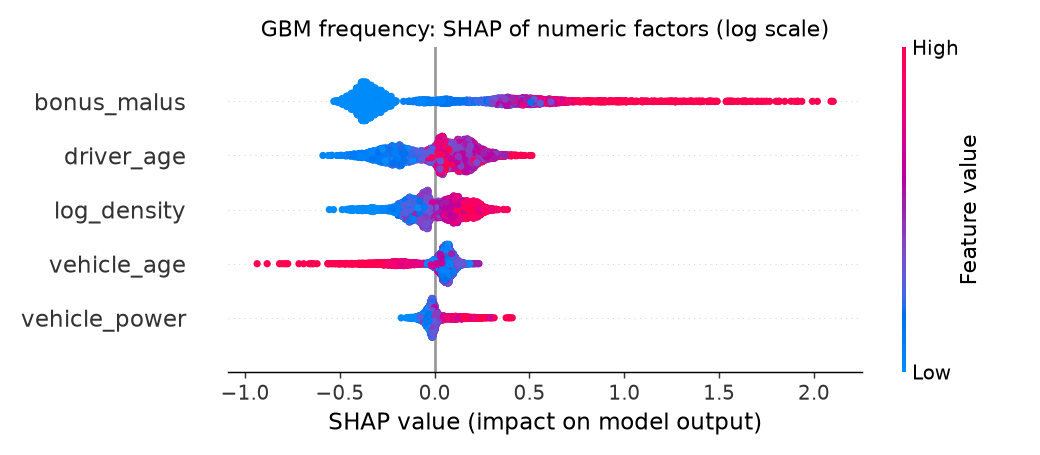
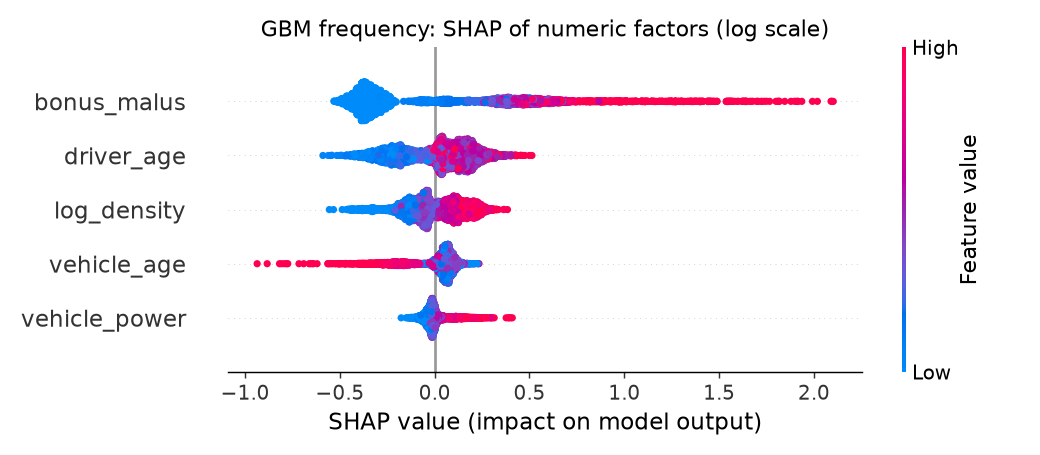
README with results, architecture and cost choices; drop runtime from metrics.json

diff --git a/src/pricing/train.py b/src/pricing/train.py
@@ -247,9 +247,9 @@ def main() -> None:
         out[f"premium_{m}"] = out[f"pp_{m}"] * out["exposure"]
     out.to_parquet(processed / "policy_predictions.parquet", index=False)
 
-    report["runtime_seconds"] = round(time.time() - t0, 1)
     (results / "metrics.json").write_text(json.dumps(report, indent=2, default=float))
     print(json.dumps(report, indent=2, default=float))
+    print(f"done in {time.time() - t0:.1f}s")
 
 
 def explain_gbm(model, X_test: pd.DataFrame, results: Path) -> dict:

diff --git a/README.md b/README.md
@@ -1,0 +1,294 @@
+# Motor insurance pricing platform
+
+A small but complete pricing stack on French motor third-party liability data (freMTPL2,
+677,991 policies, 26,444 claims): raw files land as parquet, dbt builds tested
+staging → intermediate → mart layers in DuckDB, a frequency × severity GLM tariff and a
+gradient-boosting challenger are fitted on the marts, model outputs go back into the
+warehouse as a loss-ratio mart, and a FastAPI service quotes from the GLM tariff. Airflow
+or a single `make pipeline` runs the whole thing in about 40 seconds on a laptop.
+
+## Results
+
+All metrics are on a held-out 20% of policies (135,629 policies, seed 42). The source is
+[`results/metrics.json`](results/metrics.json); `make pipeline` regenerates every number below.
+
+### GLM tariff vs GBM challenger
+
+| | Flat rate | GLM (Poisson × Gamma) | GBM (Poisson × Gamma, monotone in bonus-malus) |
+|---|---|---|---|
+| Frequency: mean Poisson deviance | 0.4718 | 0.4514 | **0.4455** |
+| Frequency: deviance explained | – | 4.3% | **5.6%** |
+| Frequency Gini | 0 | 0.285 | **0.312** |
+| Pure premium Gini, capped claims (95% bootstrap CI) | 0 | 0.309 (0.270–0.349) | **0.338** (0.302–0.381) |
+| Pure premium Gini, full incurred (95% CI) | 0 | 0.367 (0.199–0.548) | 0.378 (0.229–0.556) |
+| Double lift: mean \|actual/predicted − 1\| over deciles | – | 0.26 | **0.105** |
+| Predicted / actual losses on test | 0.935 | 0.935 | 0.933 |
+
+- **The GBM ranks risks better, but not by much.** On capped claims its Gini lead is
+  +0.029 with a bootstrap 95% CI of +0.004 to +0.054, so the gain is real but small. On full
+  incurred losses the difference (CI −0.055 to +0.075) is lost in the noise of a few very
+  large claims.
+- **The double lift shows where the two models disagree.** For the 10% of policies the GBM
+  prices highest relative to the GLM, actual losses come in at 1.78× the GLM premium and
+  1.00× the GBM premium. Most of the GLM's shortfall comes from treating bonus-malus as
+  linear on the log scale (see the loss ratios below), and splines or bands on bonus-malus
+  would be the first fix to try in the GLM.
+- **Severity is close to unpredictable** with these variables. Mean Gamma deviance is
+  1.1402 for the null model, 1.1381 for the GLM and 1.1412 for the GBM. Backward selection
+  on training-set BIC keeps only driver age, vehicle power and region in the severity GLM.
+  Nearly all the segmentation comes from frequency.
+- **Large losses matter.** Claims above the training-set 99.5th percentile (€34,986) make up
+  24% of incurred cost. They are capped for severity modelling and spread back as a
+  ×1.309 load, which keeps the tariff balanced.
+- The test set happens to have about 7% more losses than the training-set average. All
+  three tariffs show the same 0.93 ratio, so this is sampling noise from large claims, not
+  miscalibration.
+
+![Lorenz curve](results/figures/lorenz_curve.png) ![Double lift](results/figures/double_lift.png)
+
+### Key GLM frequency relativities
+
+Base profile: driver aged 51–70, vehicle 1–10 years old, power class 6, regular fuel,
+brand B1, region Centre, bonus-malus 50, density e^5.97 ≈ 390 inhabitants/km².
+The full table, including severity, regions and 95% CIs, is in
+[`results/glm_relativities.csv`](results/glm_relativities.csv).
+
+| Factor | Level | Relativity (95% CI) |
+|---|---|---|
+| Bonus-malus | per point above 50 | 1.028 (1.027–1.029), i.e. **×3.97 at 100 vs 50** |
+| Fuel | Diesel vs regular | 1.18 (1.15–1.22) |
+| Driver age | 18–20 | 1.12 (1.02–1.24) |
+| | 26–30 | 0.68 (0.65–0.72) |
+| | 41–50 | 1.08 (1.04–1.12) |
+| Vehicle age | 11+ years | 0.83 (0.80–0.85) |
+| Vehicle power | 9+ | 1.17 (1.12–1.23) |
+| Population density | ×2 density | 1.05 |
+| Region | Limousin (highest) | 1.44 (1.23–1.69) |
+
+Most of the young-driver risk shows up in bonus-malus rather than age: French
+drivers start at 100 (the legal CRM scale runs 0.50–3.50), so an 18-year-old already pays
+roughly 4× the max-bonus rate before the age relativity. Severity adds its own young-driver
+loading of ×1.50 (1.25–1.79) for 18–20.
+
+The GBM agrees on what matters. By mean |SHAP| on the log-frequency scale over 5,000 test
+policies, the ranking is bonus-malus 0.41, driver age 0.16, density 0.12, vehicle age 0.10
+and fuel 0.09 ([`results/figures/shap_frequency.png`](results/figures/shap_frequency.png)).
+
+### Portfolio and loss-ratio insights (dbt marts)
+
+From `marts.mart_segment_kpis`, across all 358k policy-years: claim frequency is 0.074 per
+year, average claim cost €2,266, and pure premium €167 per year.
+
+- Drivers aged 18–20 have 3.2× the portfolio frequency (0.239) and a pure premium of
+  €3,206. They account for 0.7% of exposure.
+- Frequency rises steadily with density: 0.057 below 100 inhabitants/km² vs 0.096 above
+  2,000.
+- Bonus-malus is the strongest single split: 0.052 at max bonus (50) vs 0.352 in malus
+  (> 100).
+
+`marts.mart_loss_ratio_by_segment` compares each test segment's losses to the premium of
+three tariffs. Claims are capped and the excess loaded back. The table shows the
+exposure-weighted mean |loss ratio − 1| across each dimension's segments:
+
+| Dimension | Flat | GLM | GBM |
+|---|---|---|---|
+| Bonus-malus band | 0.360 | 0.113 | **0.046** |
+| Driver age band | 0.134 | 0.049 | 0.048 |
+| Density band | 0.171 | 0.049 | 0.053 |
+| Region (2016) | 0.141 | 0.072 | 0.076 |
+| Vehicle brand | 0.137 | 0.099 | 0.099 |
+
+The GLM's straight-line bonus-malus effect underprices the 51–79 band (loss ratio 1.14)
+and overprices max bonus (0.90). The GBM's monotone fit gets those to 0.92 and 1.03. On
+other dimensions the two tariffs are equally good.
+
+## Architecture
+
+```mermaid
+flowchart LR
+    A[CASdatasets / OpenML<br/>freMTPL2 .rda] -->|scripts/download_data.py| B[(data/raw/*.parquet)]
+    B --> C[dbt: staging<br/>stg_policies, stg_claims]
+    S[seed: region_mapping<br/>INSEE codes] --> D
+    C --> D[dbt: intermediate<br/>int_policy_claims, int_policies_enriched]
+    D --> E[dbt: marts<br/>fct_policies, fct_claims, mart_segment_kpis]
+    E -->|pricing.train| F[GLM tariff JSON<br/>+ GBM challenger]
+    F --> G[(policy_predictions.parquet)]
+    G --> H[dbt: mart_loss_ratio_by_segment]
+    F -->|models/tariff.json| I[FastAPI POST /quote]
+    subgraph Orchestration
+      J[Airflow DAG / make pipeline]
+    end
+```
+
+| Layer | What it does |
+|---|---|
+| `scripts/download_data.py` | Pulls the original CASdatasets `.rda` files (OpenML as fallback) and writes parquet. Raw data is not committed. |
+| `dbt/models/staging` | Renames and types columns; one view per source. |
+| `dbt/models/intermediate` | Claims rolled up per policy, region reference joined (INSEE codes and 2016 regions), rating bands. |
+| `dbt/models/marts` | `fct_policies`, `fct_claims`, `mart_segment_kpis` (frequency, severity, pure premium by segment), and `mart_loss_ratio_by_segment` (tag `post_model`). |
+| dbt tests (50) | `unique`, `not_null`, `relationships`, `accepted_values`, plus three custom generic tests (`accepted_range`, `row_count_between` volume checks on sources and marts, `unique_combination`) and a singular test that every policy's ClaimNb matches its claim records. |
+| `src/pricing/train.py` | GLMs (statsmodels), GBMs (scikit-learn HistGradientBoosting), metrics, relativities, SHAP, figures. |
+| `src/pricing/rating.py`, `api.py` | Pure-Python rating from the tariff JSON; FastAPI `/quote` and `/health`. |
+| `dags/motor_pricing_dag.py` | `data → dbt_build → train → dbt_post → [docs, test]`, each task calls the matching `make` target. |
+| `.github/workflows/ci.yml` | Lint, download, dbt build and tests on DuckDB, training, post-model dbt, pytest, dbt docs. |
+
+### Modelling choices
+
+- **Frequency:** Poisson GLM with log link and `log(exposure)` offset. Exposure is capped
+  at 1 year and claim counts at 4 (standard freMTPL2 cleaning). The bands follow Noll,
+  Salzmann & Wüthrich (2018). Area is dropped because it is a banding of density, and using
+  both makes the two coefficients unstable.
+- **Severity:** Gamma GLM with log link on the average capped claim, weighted by claim
+  count. Factors are chosen by backward elimination on training BIC.
+- **GBM challenger:** the same two targets with Poisson and Gamma losses. Early stopping
+  uses an internal 10% validation split. Bonus-malus has a monotone-increasing constraint
+  because a worse claims history must never lower the price. The categoricals are one-hot
+  encoded. scikit-learn's native categorical splits are not reproduced correctly by SHAP's
+  TreeExplainer (SHAP sums were off by up to 2 on the log scale), so training checks SHAP
+  additivity against the model's own predictions and fails if it breaks.
+- **Balance:** each component is rescaled so its training-set total matches observed. For
+  the GLM the factor goes into the intercept.
+- **Selection:** nothing is tuned on the test set.
+
+### Regulation, fairness and explainability
+
+- **No gender.** EU law has banned gender-based insurance pricing since the Test-Achats
+  ruling (CJEU C-236/09, applicable from 21 December 2012). freMTPL2 has no gender
+  variable, and the API schema has no such field; a test asserts this.
+- **Proxies.** Region and density are legitimate rating factors, but they correlate with
+  socio-economic characteristics. A production tariff would monitor premium outcomes
+  across groups where that data is lawfully available. Here the dbt loss-ratio mart is the
+  monitoring hook: it shows by segment whether a tariff over- or under-charges.
+- **Explainability.** The GLM is the tariff of record. Each quote returns its base premium
+  and one frequency, severity and combined relativity per factor, which multiply exactly
+  to the price (tested). The GBM is a challenger used to find where the GLM misfits, for
+  example the bonus-malus shape. Its SHAP values are exact decompositions of its
+  log-frequency.
+- **AI Act.** Annex III lists pricing in life and health insurance as high-risk; motor
+  insurance is not on that list. The logging, documentation and tests here still follow
+  the same spirit.
+
+## Architecture & cost choices
+
+**DuckDB is the default and Snowflake is the production target.** The whole dataset is
+7 MB of parquet, and `dbt build` over it takes about 1 second in DuckDB on a laptop. At this
+size a cloud warehouse adds cost and latency without solving any problem, and CI can run
+the full build and tests for free.
+
+Snowflake becomes the right call when the platform stops being one person's laptop:
+
+- several years of policy and claims history from operational systems
+- several teams (pricing, reserving, finance) reading the same marts
+- role-based access and masking on personal data
+- BI tools querying concurrently
+
+The project is set up for that switch without a rewrite:
+
+- One dbt project, two targets in `dbt/profiles.yml`. `DBT_TARGET=snowflake` points
+  everything at `MOTOR_PRICING`. Sources resolve to parquet files on DuckDB and to
+  `RAW.*` / `MODEL_OUTPUTS.*` tables on Snowflake, and `dbt parse --target snowflake`
+  resolves every source and model correctly.
+- No dbt packages and no adapter-specific SQL. The custom tests are plain SQL.
+- [`warehouse/snowflake_setup.sql`](warehouse/snowflake_setup.sql) creates an X-Small
+  warehouse with 60 s auto-suspend, a 10-credit monthly resource monitor that suspends at
+  100%, a `TRANSFORMER` role, schemas and a parquet stage.
+- [`scripts/load_snowflake.py`](scripts/load_snowflake.py) PUTs the parquet files and
+  creates tables with `INFER_SCHEMA` + `COPY INTO … MATCH_BY_COLUMN_NAME`, keeping source
+  column names so the staging SQL is unchanged.
+- An X-Small warehouse costs 1 credit per running hour, billed per second with a 60 s
+  minimum, so short monthly runs with auto-suspend stay small. The resource monitor caps
+  the worst case.
+
+The Snowflake path has not been run yet. It needs an account; the setup is written but
+untested against a live warehouse.
+
+**Other choices:**
+
+- **Tariff as JSON.** The model ships as a few-KB file that an actuary can review and diff.
+  The API image needs only FastAPI, Pydantic and Uvicorn, with no pandas, statsmodels or
+  scikit-learn.
+- **Airflow runs in its own environment.** The DAG only calls `make`, so Airflow's
+  dependency tree never meets dbt's or the modelling stack's. The same steps run without
+  Airflow.
+
+## How to run
+
+Requires [uv](https://docs.astral.sh/uv/). Python 3.12 is installed by uv.
+
+```bash
+uv sync
+make pipeline        # download -> dbt build + tests -> train -> loss-ratio mart -> dbt docs -> pytest
+```
+
+Individual steps: `make data`, `make dbt-build`, `make train`, `make dbt-post`, `make docs`,
+`make test`. Explore the marts with `uv run duckdb data/warehouse.duckdb`, or browse the
+docs with `cd dbt && uv run dbt docs serve --profiles-dir .`.
+
+Quote API:
+
+```bash
+make serve
+curl -s localhost:8000/quote -H 'content-type: application/json' -d '{
+  "driver_age": 22, "vehicle_age": 3, "vehicle_power": 7, "bonus_malus": 90,
+  "population_density": 2500, "fuel_type": "Diesel", "vehicle_brand": "B12",
+  "region_name": "Ile-de-France"}'
+```
+
+Docker: `make docker-build && make docker-run`.
+
+Airflow (3.x, in a separate environment):
+
+```bash
+uv venv .venv-airflow --python 3.12 && uv pip install --python .venv-airflow "apache-airflow>=3,<4"
+export AIRFLOW_HOME=$PWD/.airflow AIRFLOW__CORE__DAGS_FOLDER=$PWD/dags AIRFLOW__CORE__LOAD_EXAMPLES=False
+.venv-airflow/bin/airflow standalone            # UI on :8080, or:
+.venv-airflow/bin/airflow dags test motor_pricing
+```
+
+Snowflake (once an account exists):
+
+```bash
+uv sync --extra snowflake
+export SNOWFLAKE_ACCOUNT=... SNOWFLAKE_USER=... SNOWFLAKE_PASSWORD=...
+# run warehouse/snowflake_setup.sql once
+uv run python scripts/load_snowflake.py
+DBT_TARGET=snowflake make dbt-build
+```
+
+## What has been verified
+
+| Check | Status |
+|---|---|
+| `make pipeline` from a clean state | Passes locally in about 40 s: 50 dbt tests, 21 pytest tests |
+| `airflow dags test motor_pricing` | All 6 tasks succeed (Airflow 3.3.2, separate venv) |
+| API rating vs training predictions | Equal to 1e-9 on 500 real policies (`tests/test_pipeline_consistency.py`) |
+| `dbt parse` against the Snowflake target | Passes |
+| Docker image build | Not run: Docker is not installed on the development machine |
+| GitHub Actions workflow | Written; it runs on the first push |
+| Snowflake load and build | Not run (no account yet) |
+
+## Limits
+
+- **No written premium.** Loss ratios are actual losses over each model's technical
+  (pure) premium, with no expenses, commissions or profit loading.
+- **One year of data.** freMTPL2 is a single cross-section, so there is no out-of-time
+  validation. The split is a random split by policy. 38% of rows share every rating
+  feature with at least one other row, and some of these are probably the same
+  policyholder under several policy ids. A grouped split would be stricter, and the test
+  metrics may be slightly optimistic for both models.
+- **Wide uncertainty on uncapped results.** Full-incurred Gini CIs are wide because a few
+  claims (up to €4.1M) dominate the losses. The capped metrics are the more reliable
+  comparison.
+- **Simplified tariff.** The GLM uses fixed bands and no interactions, and bonus-malus is
+  linear on the log scale. That is a deliberately simple baseline, and the double lift
+  shows where it falls short.
+- **Two snapshots of the data.** CASdatasets has 677,991 policies and 26,444 claims, with
+  claim counts that reconcile exactly. OpenML's copy is slightly different (678,013 /
+  26,639). The download uses OpenML only if GitHub is unreachable. That path has not been
+  exercised here; if its claim counts don't reconcile, `assert_claim_counts_reconcile`
+  will fail the build rather than pass silently.
+
+## Data
+
+freMTPL2freq / freMTPL2sev from the R package CASdatasets (Charpentier & Dutang), also on
+OpenML (ids 41214 and 41215). Region codes are INSEE codes for the pre-2016 regions.
